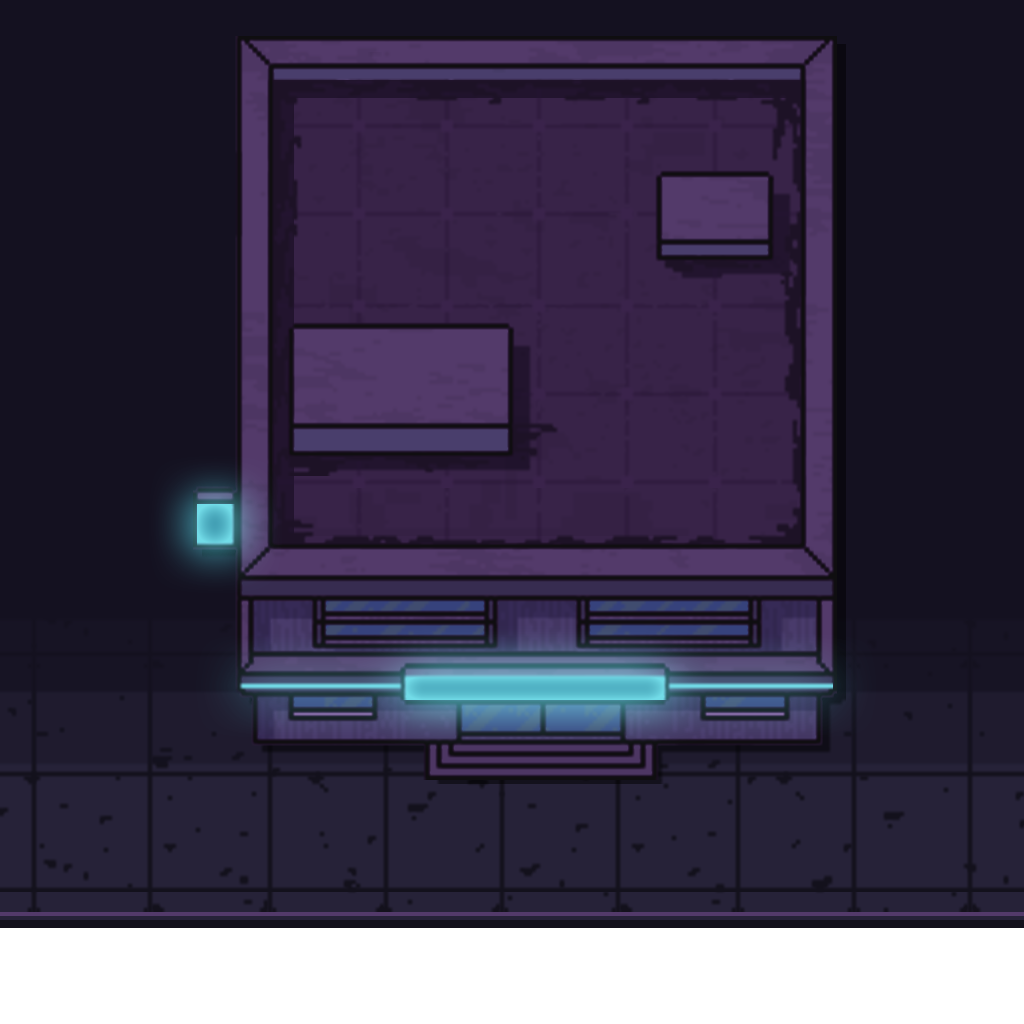
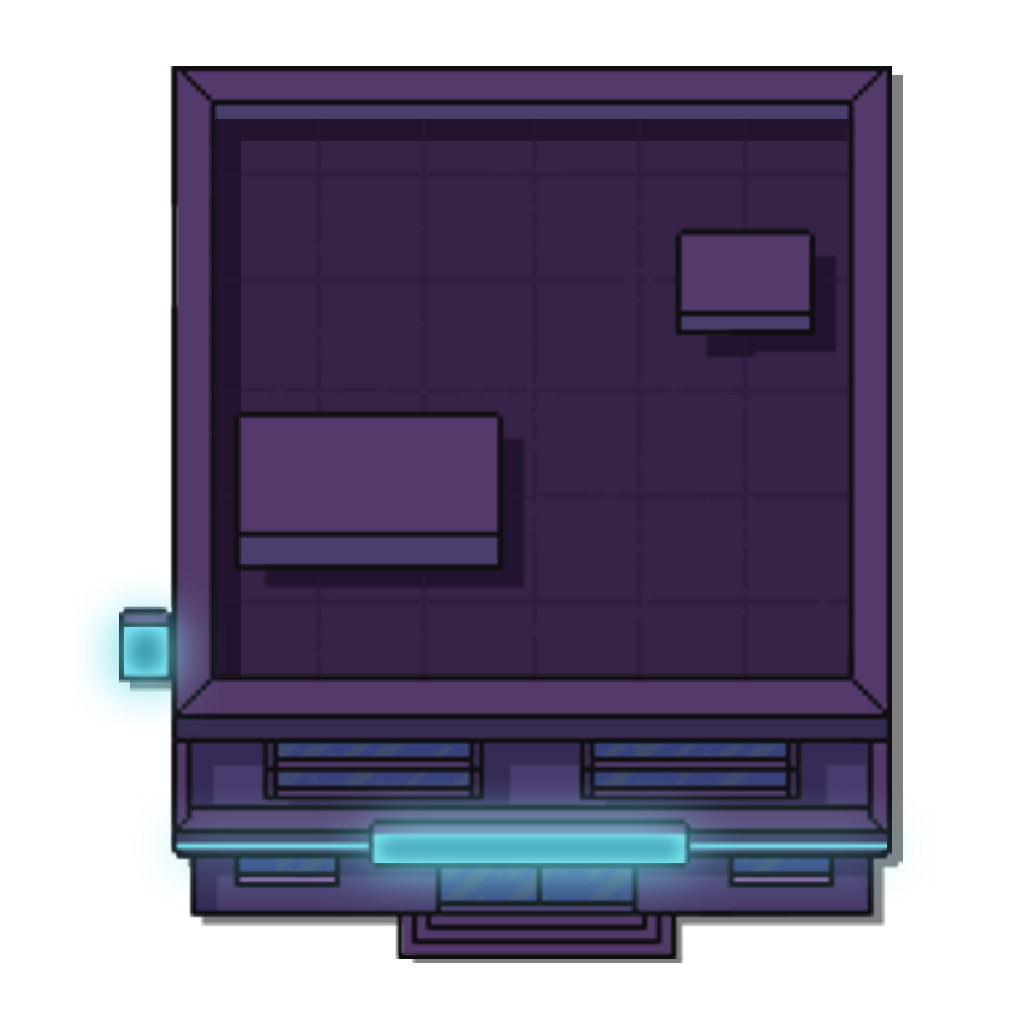
仮マップ更新

diff --git a/docs/index.html b/docs/index.html
@@ -2,9 +2,9 @@
 <html>
 	<head>
 		<meta charset="UTF-8">
-		<link rel="stylesheet" type="text/css" href="./css/style.css?v=cc10054">
-		<script type="text/javascript" src="./js/lib/phaser.min.js?v=cc10054"></script>
-		<script type="text/javascript" src="./js/main.min.js?v=cc10054"></script>
+		<link rel="stylesheet" type="text/css" href="./css/style.css?v=103868c">
+		<script type="text/javascript" src="./js/lib/phaser.min.js?v=103868c"></script>
+		<script type="text/javascript" src="./js/main.min.js?v=103868c"></script>
 		<title>NST</title>
 	</head>
 	<body>
